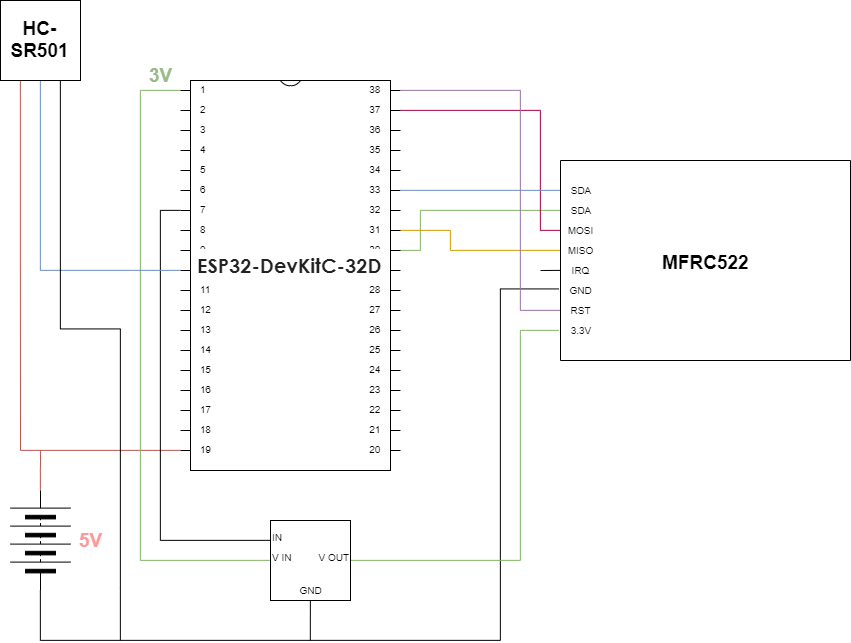
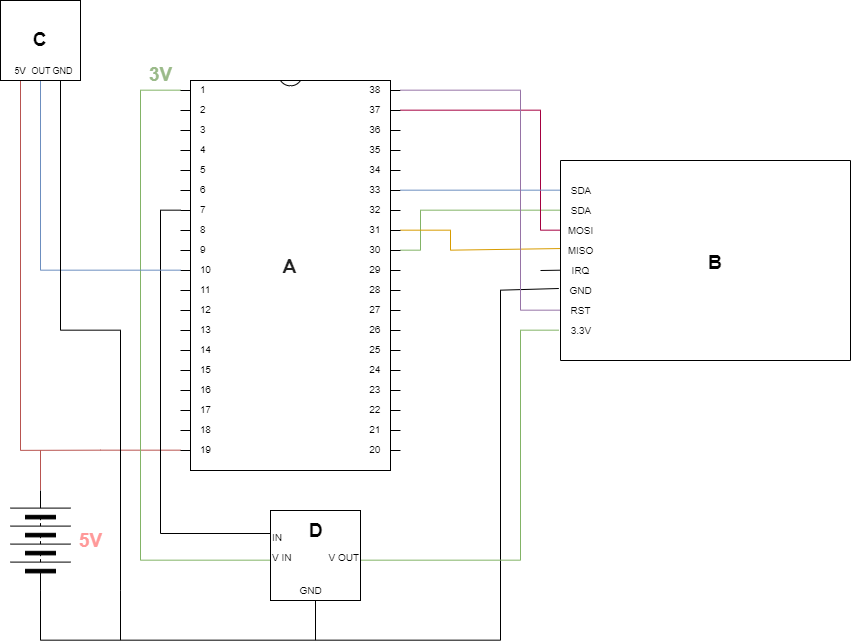
add hardware schemes

diff --git a/docs/chapters/controller.tex b/docs/chapters/controller.tex
@@ -28,13 +28,39 @@
 
             Dzięki temu możliwe jest dobranie parametrów czujnika w taki sposób, aby użytkownik był wykrywany w odpowiednim momencie, co przekłada się na bardziej optymalne działanie układu.
 
-            Aby zapewnić wykrycie zbliżającego się użytkownika w optymalnym dla pracy układu czasie, poziom czułości czujnika został ustawiony na wartość minimalną 3 m. Długość czasu trwania stanu wysokiego po wykryciu obiektu została ustawiona na wartość minimalną celem uzyskania impulsu stanowiącego źródło wybudzenia mikrokontrolera. Wybrany został tryb \textit{retriggering} w celu zapewnienia poprawnego działania układu w sytuacji gdy użytkownik zostanie wykryty, lecz nie zdąży przyłożyć identyfikatora do czytnika w zadanym okresie czasu. Dzięki zastosowaniu trybu \textit{retriggering} możliwe jest ponowne wykrycie użytkownika po jego zbliżeniu się do zamka. 
+            Aby zapewnić wykrycie zbliżającego się użytkownika w optymalnym dla pracy układu czasie, poziom czułości czujnika został ustawiony na wartość minimalną 3 m. Długość czasu trwania stanu wysokiego po wykryciu obiektu została ustawiona na wartość minimalną celem uzyskania impulsu stanowiącego źródło wybudzenia mikrokontrolera. Wybrany został tryb \textit{retriggering} w celu zapewnienia poprawnego działania układu w sytuacji gdy użytkownik zostanie wykryty, lecz nie zdąży przyłożyć identyfikatora do czytnika w zadanym okresie czasu. Dzięki zastosowaniu trybu \textit{retriggering} możliwe jest ponowne wykrycie użytkownika po jego zbliżeniu się do zamka.
 
             \textbf{TBD - schemat jak sa polaczone pinami te wszystkie komponenty}
 
-        \subsection{Układ do zasilania czytnika RFID}
+        \subsection{Połączenia komponentów}
 
-            \textbf{TBD}
+            Rysunek \ref{fig:lock_hardware_schematic} przedstawia sposób połączenia komponentów sprzętowych. Układ HC-SR501 komunikuje się z mikrokontrolerem umieszczonym na płytce ESP32-DevKitC-32D przez pojedynczą linię sygnałową. Czytnik MFRC522 w celu komunikacji z mikrokontrolerem wykorzystuje interfejs SPI. Głównym źródłem zasilania jest źródło stałoprądowe o napięciu w granicach 5~V. Jest ono wykorzystywane bezpośrednio przez układ mikrokontrolera i czujnika ruchu. Platforma ESP32-DevKitC-32D zapewnia dodatkowo źródło zasilania napięciem o wartości 3,3~V. które za pośrednictwem układu sterującego wykorzystywane jest do zasilania czytnika.
+
+            \begin{figure}[]
+                \centering
+                \includegraphics[width=\textwidth]{chapters/images/lock_hardware_schematic.png}
+                \caption[Schemat połączeń w układzie zamka] {
+                    Schemat połączeń w układzie zamka.
+                    \textbf{(A)} ESP32-DevKitC-32D
+                    \textbf{(B)} Czytnik MFRC522
+                    \textbf{(C)} Czujnik ruchu HC-SR501
+                    \textbf{(D)} Układ sterujący zasilaniem czytnika
+                }
+                \label{fig:lock_hardware_schematic}
+            \end{figure}
+
+        \subsection{Układ sterujący zasilaniem czytnika RFID}
+
+            Układ czytnika wymaga zasilania napięciem 3,3V o mocy do 330mW~\cite{mfrc522-ds}. Jest to kosztowne z punktu widzenia wydajności energetycznej, dlatego z chwilą wprowadzenia mikrokontrolera w stan głębokiego uśpienia czytnik musi zostać wyłączony. Wyjścia mikrokontrolera są łatwo dostępnym i kontrolowanym programowo źródłem napięcia, jednak ze względu na niską wydajność prądową, nie można ich wykorzystać do bezpośredniego zasilania układów o mocy powyżej 130mW~\cite{esp32-ds}. Dlatego zastosowano przedstawiony na rysunku \ref{fig:rfid_power_relay} układ przełączający. Stan wysoki na wejściu układu otwiera kanał tranzystora przełączającego co umożliwia przepływ prądu przez układ i w efekcie zasilenie układu czujnika.
+
+            \begin{figure}[]
+                \centering
+                \includegraphics[width=0.5\textwidth]{chapters/images/rfid_power_relay.png}
+                \caption{Schemat układu sterującego zasilaniem czytnika}
+                \label{fig:rfid_power_relay}
+            \end{figure}
+
+
 
     \section{Konfiguracja środowiska}
 
@@ -110,7 +136,7 @@
                 \item Tryb z uśpionym modemem (\textit{Modem-sleep mode})
 
                     Aktywne CPU, układ radiowy wyłączony.
-                
+
                 \item Tryb lekkiego uśpienia (\textit{Light-sleep mode})
 
                     Uśpione CPU. Pamięć i peryferia RTC (ang. \textit{Real-Time Clock}, zegar czasu rzeczywistego) wraz z koprocesorem ULP (ang. \textit{Ultra Low Power co-processor}) są aktywne. Jakiekolwiek zdarzenia wybudzające doprowadzą do wybudzenia układu.
@@ -137,7 +163,7 @@
         \subsection{Komunikacja z wykorzystaniem TLS}
         \label{sub:tls}
 
-            TLS (ang. \textit{Transport Layer Security}) jest rozwinięciem protokołu SSL (ang. \textit{Secure Socket Layer}). TLS zapewnia poufność oraz integralność transmisji. Umożliwia też uwierzytelnienie serwera, a czasami również klienta. 
+            TLS (ang. \textit{Transport Layer Security}) jest rozwinięciem protokołu SSL (ang. \textit{Secure Socket Layer}). TLS zapewnia poufność oraz integralność transmisji. Umożliwia też uwierzytelnienie serwera, a czasami również klienta.
             Protokół TLS w wersji 1.3 zaproponowano w dokumencie \cite{rfc8446}. Dokument definiuje podprotokół uścisku dłoni (ang. \textit{handshake}), dzięki któremu klient i serwer mogą uzgodnić wersję protokołu, rodzaj używanych algorytmów kryptograficznych, opcjonalnie dokonać wzajemnego uwierzytelnienia, a także ustanowić klucze kryptograficzne. Po dokonaniu uścisku dłoni, strony używają ustalonych kluczy celem zabezpieczenia przesyłanych danych.
             \textit{Handshake} TLS składa się z trzech faz:
 
